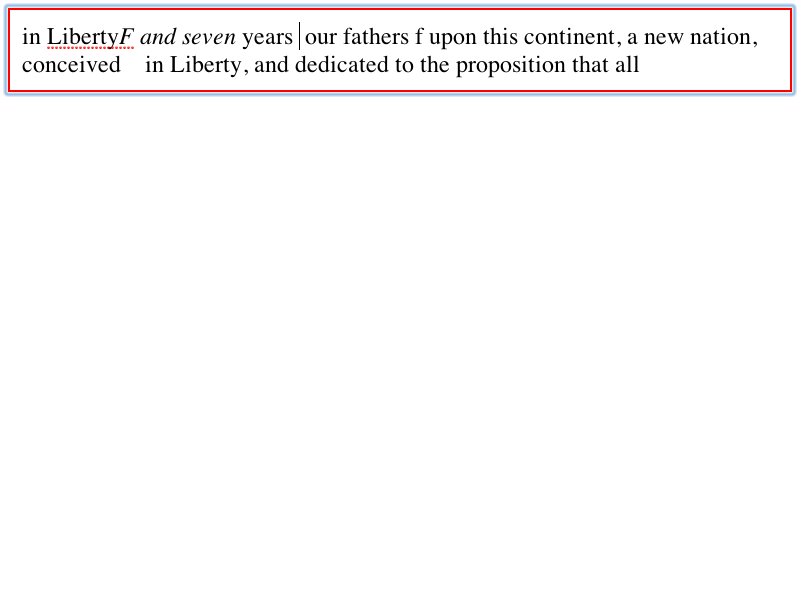
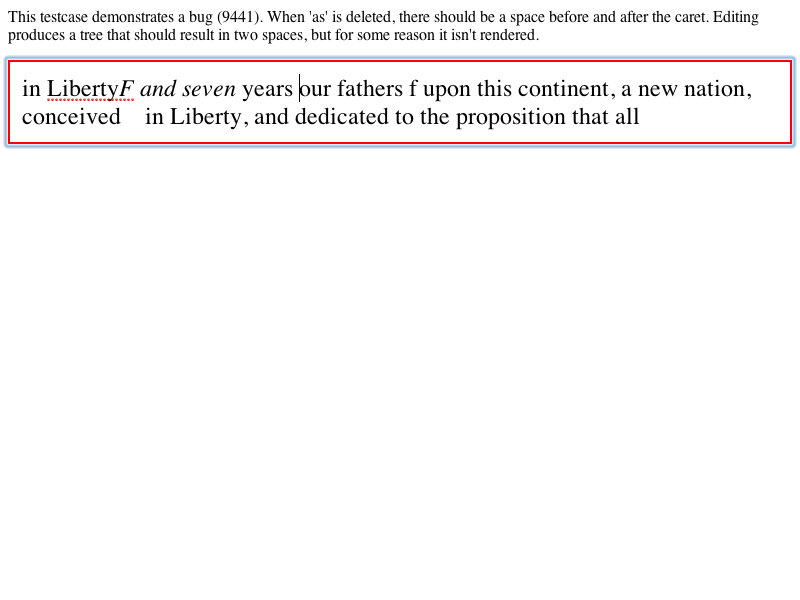
LayoutTests:
Reviewed by justin

        <http://bugzilla.opendarwin.org/show_bug.cgi?id=7580>
        TinyMCE: Implement execCommand(formatBlock, ...)

        * editing/deleting/delete-ws-fixup-002-expected.checksum:
        * editing/deleting/delete-ws-fixup-002-expected.png:
        * editing/deleting/delete-ws-fixup-002-expected.txt:
        * editing/deleting/delete-ws-fixup-002.html:
        * editing/execCommand/format-block-expected.checksum: Added.
        * editing/execCommand/format-block-expected.png: Added.
        * editing/execCommand/format-block-expected.txt: Added.
        * editing/execCommand/format-block-from-range-selection-expected.checksum: Added.
        * editing/execCommand/format-block-from-range-selection-expected.png: Added.
        * editing/execCommand/format-block-from-range-selection-expected.txt: Added.
        * editing/execCommand/format-block-from-range-selection.html: Added.
        * editing/execCommand/format-block.html: Added.

WebCore:

        Reviewed by justin

        <http://bugzilla.opendarwin.org/show_bug.cgi?id=7580>
        TinyMCE: Implement execCommand(formatBlock, ...)

        * WebCore.xcodeproj/project.pbxproj: Added FormatBlock.{h,cpp} to the project.
        * WebCore.vcproj/WebCore/WebCore.vcproj: Ditto.
        * bridge/mac/WebCoreFrameBridge.h: Added WebUndoActions
        * editing/CompositeEditCommand.cpp:
        (WebCore::CompositeEditCommand::moveParagraph): Added a preserveStyle bool.
[…]

Changed region(s): [[0.0, 0.0, 1.0, 0.27]]

diff --git a/editing/execCommand/format-block.html b/editing/execCommand/format-block.html
@@ -1,0 +1,23 @@
+<div id="description">This test uses FormatBlock to modify three of the paragraphs below</div>
+<br>
+<div style="border:1px solid black" contenteditable="true">
+<p id="item1">Make Pre</p>
+<br>
+<div>Foo<br><span id="item2">Make h1</span><br>baz</div>
+<br>
+<address id="item3">Attempt to apply the current formatting here</address>
+</div>
+
+<script>
+var s = window.getSelection();
+var r = document.createRange();
+var p1 = document.getElementById("item1");
+var p2 = document.getElementById("item2");
+var p3 = document.getElementById("item3");
+s.setPosition(p1, 0);
+document.execCommand("FormatBlock", false, "pre");
+s.setPosition(p2, 0);
+document.execCommand("FormatBlock", false, "h1");
+s.setPosition(p3, 0);
+document.execCommand("FormatBlock", false, "address");
+</script>

diff --git a/editing/execCommand/format-block-from-range-selection.html b/editing/execCommand/format-block-from-range-selection.html
@@ -1,0 +1,18 @@
+<div id="description">This test uses FormatBlock to apply the dl tag to a range of paragraphs with different block tags.</div>
+<br>
+<div style="border:1px solid black" contenteditable="true">
+<pre id="start">Foo</pre>
+<div>bar<br><span>baz</span><br>raz</div>
+dar
+<br>
+<address id="end">yar</address>
+</div>
+
+<script>
+var s = window.getSelection();
+var start = document.getElementById("start").firstChild;
+var end = document.getElementById("end").firstChild;
+s.setBaseAndExtent(start, 2, end, 2);
+
+document.execCommand("FormatBlock", false, "dl");
+</script>

diff --git a/editing/deleting/delete-ws-fixup-002.html b/editing/deleting/delete-ws-fixup-002.html
@@ -28,6 +28,7 @@ function editingTest() {
 <title>Editing Test</title> 
 </head> 
 <body>
+<p>This testcase demonstrates a bug (9441).  When 'as' is deleted, there should be a space before and after the caret.  Editing produces a tree that should result in two spaces, but for some reason it isn't rendered.</p>
 <div contenteditable id="root" class="editing">
 <span id="test">in Liberty<i>F    and seven</i> years <b>  as </b>our fathers  f upon this
 continent, a new nation, conceived &nbsp;&nbsp; in Liberty,                 and dedicated to the
